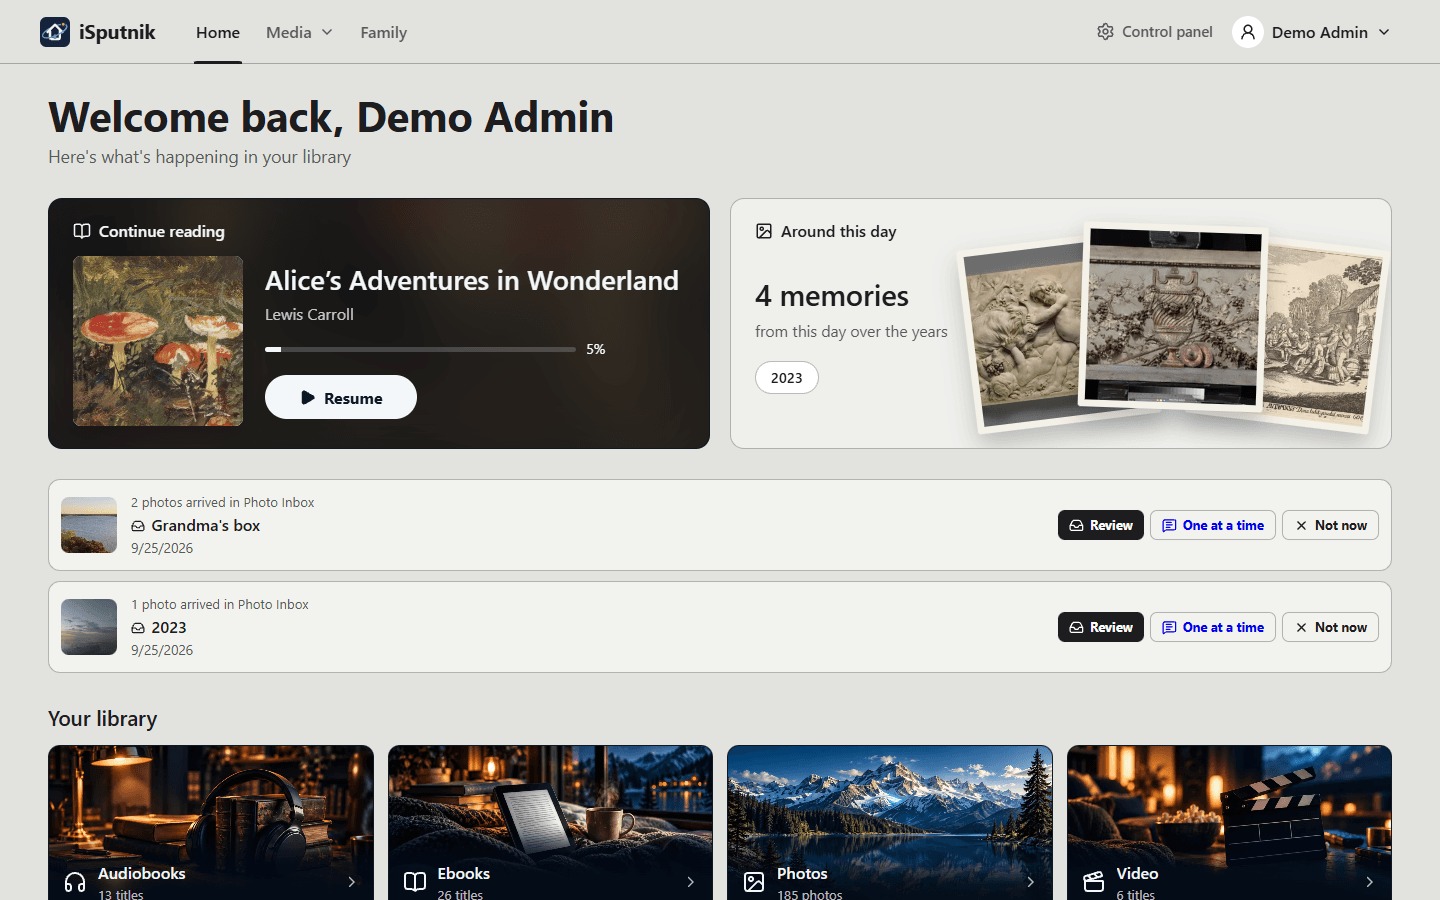
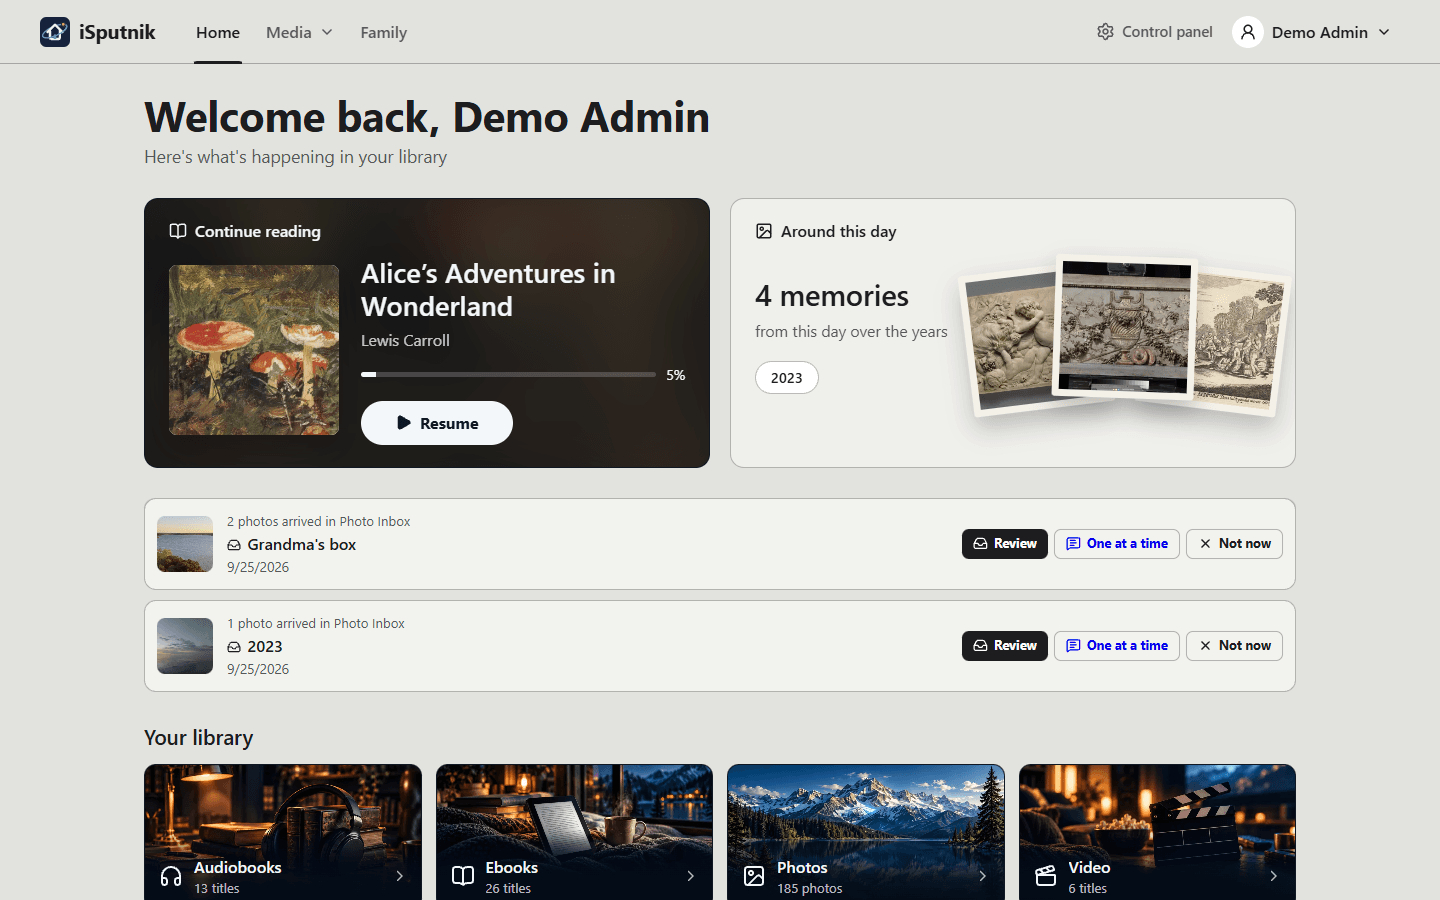
release: 4.56.0 - Covers like books on a shelf
Covers are the bare picture: no box, frame or blurred fill. Every cover in
a row is as tall as its slot (square for audiobooks, a fifth taller for
books and films, via container queries) and keeps its own shape, set on the
slot's floor so titles line up. Pages take 80% of the window
(--browse-page-width, at least 1100px) for libraries, Video and Home; Home
tiles are as wide as their covers. shared/coverBackdrop.ts is gone.

diff --git a/apps/web/src/styles/library-browse.css b/apps/web/src/styles/library-browse.css
@@ -38,6 +38,13 @@ input.library-filter {
 
 /* ── Audiobook landing page ─────────────────────────────────────── */
 
+/* How wide a page in the middle of the screen is: four fifths of the window, as
+   in the owner's mock-up, and never squeezed below 1100px on a smaller one.
+   Shared by the browse pages, Video and the top layout's Home. */
+:root {
+  --browse-page-width: min(100%, max(80vw, 1100px));
+}
+
 .audiobook-main-page {
   --audiobook-soft-shadow: 0 8px 18px var(--shadow);
   --audiobook-strong-shadow: 0 18px 36px var(--shadow);
@@ -58,11 +65,11 @@ input.library-filter {
   min-width: 0;
 }
 
-/* Browse pages sit in the middle of a wide screen at Home's and Video's width,
-   so a row of covers stays one glance wide. The family map is the exception: a
+/* Browse pages sit in the middle of a wide screen — about four fifths of it, the
+   owner's mock-up — like Home and Video, so a row of covers stays one glance wide. The family map is the exception: a
    map is better the more of it there is. */
 .audiobook-main-page:not(.ft-map-page) {
-  width: min(100%, 1680px);
+  width: var(--browse-page-width);
   margin-inline: auto;
 }
 
@@ -963,7 +970,7 @@ input.library-filter {
 }
 
 /* The View menu's cover sizes, one width for every kind so audiobooks and ebooks
-   line up column for column: at the 1680px page comfortable holds seven covers a
+   line up column for column: at a 1920px window comfortable holds seven covers a
    row, compact nine, large five; narrower windows simply hold fewer. */
 .audiobook-catalog.grid {
   grid-template-columns: repeat(auto-fill, minmax(190px, 1fr));
@@ -976,7 +983,7 @@ input.library-filter {
 }
 
 .audiobook-catalog.grid.compact {
-  grid-template-columns: repeat(auto-fill, minmax(165px, 1fr));
+  grid-template-columns: repeat(auto-fill, minmax(150px, 1fr));
   gap: 26px 20px;
 }
 
@@ -1048,12 +1055,55 @@ input.library-filter {
     var(--active);
 }
 
-/* One square shape for every kind — audiobooks, ebooks, video — so covers line
-   up across the libraries. A cover of another shape is shown whole over a blur
-   of itself (.cover-backdrop). No frame. */
+/* The cover is the picture itself — no box, frame or fill around it, like books
+   on a shelf. The picture is as large as fits a slot (--cover-slot, measured in
+   the card's own width — a container query, so it can only size what is INSIDE
+   the card) and sits on the floor of the card's first row at its left edge; the
+   grid stretches every card in a row to the tallest, so the titles under a row
+   stay on one line. Tall covers get a
+   slot a fifth taller than the column is wide, so a book cover fills most of its
+   column; the Audiobooks page, all square art, keeps a square slot. Covers come
+   from the server larger than any slot, so capping them never blurs them. */
+.audiobook-catalog-card.grid {
+  --cover-slot: 120cqw;
+  container-type: inline-size;
+  grid-template-rows: 1fr auto;
+}
+
+.audiobook-catalog.is-audiobook .audiobook-catalog-card.grid {
+  --cover-slot: 100cqw;
+}
+
 .audiobook-catalog-card.grid .audiobook-catalog-cover {
-  aspect-ratio: 1 / 1;
+  align-self: end;
+  justify-self: start;
+  display: block;
+  width: fit-content;
+  height: auto;
   border: 0;
+  background: transparent;
+}
+
+.audiobook-catalog-card.grid .audiobook-catalog-cover img {
+  position: static;
+  display: block;
+  width: auto;
+  height: auto;
+  min-width: 40cqw;
+  max-width: 100cqw;
+  max-height: var(--cover-slot);
+  background: transparent;
+}
+
+/* A narrow cover still gets the whole row of actions under it on hover. */
+.audiobook-catalog-card.grid .audiobook-catalog-actions {
+  right: auto;
+  width: max(calc(100% + 2px), 100cqw);
+}
+
+/* Nothing under the cover any more, so the lift on hover is all the shadow. */
+.audiobook-catalog-card.grid .audiobook-catalog-cover {
+  box-shadow: 0 10px 22px var(--shadow);
 }
 
 

diff --git a/apps/web/src/styles/video.css b/apps/web/src/styles/video.css
@@ -8,7 +8,7 @@
 .audiobook-main-page.video-page {
   position: relative;
   gap: 30px;
-  width: min(100%, 1680px);
+  width: var(--browse-page-width);
   margin-inline: auto;
 }
 
@@ -23,7 +23,10 @@
 }
 
 .video-card {
+  --cover-slot: 120cqw;
+  container-type: inline-size;
   display: grid;
+  grid-template-rows: 1fr auto;
   gap: 8px;
   min-width: 0;
   color: var(--ink);
@@ -49,6 +52,33 @@
   outline-offset: 0;
 }
 
+/* With a poster the cover is the picture alone, as tall as the column is wide,
+   like the book covers; without one it stays a square of the title. */
+.video-card-cover.has-poster {
+  align-self: end;
+  justify-self: start;
+  display: block;
+  width: fit-content;
+  height: auto;
+  aspect-ratio: auto;
+  background: transparent;
+}
+
+.video-card-cover.has-poster > img {
+  position: static;
+  display: block;
+  width: auto;
+  height: auto;
+  min-width: 40cqw;
+  max-width: 100cqw;
+  max-height: var(--cover-slot);
+}
+
+/* A title with no poster yet fills the slot as a square of its name. */
+.video-card-cover:not(.has-poster) {
+  align-self: end;
+}
+
 .video-card:hover .video-card-cover,
 .video-card:focus-visible .video-card-cover {
   outline-color: var(--mint);
@@ -64,9 +94,6 @@
   letter-spacing: 0.04em;
 }
 
-.video-card-cover.has-poster {
-  background: var(--surface-raised);
-}
 
 .video-card-cover > img {
   position: absolute;

diff --git a/apps/web/src/styles/orbit.css b/apps/web/src/styles/orbit.css
@@ -560,7 +560,7 @@
   position: relative;
   display: grid;
   gap: 30px;
-  width: min(100%, 1680px);
+  width: var(--browse-page-width);
   margin: 0 auto;
   padding: 0 0 48px;
 }
@@ -891,9 +891,21 @@
   text-decoration: none;
 }
 
-/* Every tile is the same square, whatever its kind. */
+/* Every tile is as tall as the square; a tile is as wide as its cover, so the gaps
+   along a row stay even, and its words take that width without widening it. */
 .orbit-tile {
+  width: fit-content;
+  min-width: calc(var(--orbit-cover) * 0.5);
+  max-width: var(--orbit-cover);
+}
+
+.orbit-tile:has(> .orbit-tile-cover:not(:has(> img))) {
   width: var(--orbit-cover);
+}
+
+.orbit-tile > :not(.orbit-tile-cover) {
+  width: 0;
+  min-width: 100%;
 }
 
 .orbit-tile-cover {
@@ -922,8 +934,19 @@
   object-fit: cover;
 }
 
-/* A book cover or poster is taller than the square: shown whole, not cropped, so
-   its title survives, with a blur of it either side (cover-backdrop). */
+/* A cover is the picture alone, as tall as the tile's square and as wide as it
+   needs: no box or fill around a tall book cover or poster. */
+.orbit-tile-cover:has(> img) {
+  width: fit-content;
+  max-width: 100%;
+  background: transparent;
+}
+
+.orbit-tile-cover > img {
+  width: auto;
+  max-width: 100%;
+  object-fit: contain;
+}
 
 .orbit-tile-empty {
   display: grid;

diff --git a/apps/web/src/features/home/OrbitHome.tsx b/apps/web/src/features/home/OrbitHome.tsx
@@ -7,7 +7,6 @@ import { useSections } from "../../app/sections";
 import { useVideoAvailable } from "../../app/useVideoAvailable";
 import { followRoute, galleryRecentHref, navigate } from "../../router";
 import { Button } from "../../shared/Button";
-import { coverBackdrop } from "../../shared/coverBackdrop";
 import { DEFAULT_COVERS } from "../audiobooks/covers";
 import { authorLine, feedHref, fetchFeed, type FeedItem } from "../library/feed";
 import {
@@ -101,7 +100,7 @@ function TileRow({ title, viewAll, tiles }: { title: string; viewAll?: string; t
               href={tile.href}
               onClick={tile.onClick ?? ((event) => followRoute(event, tile.href))}
             >
-              <span className={`orbit-tile-cover${tile.cover ? " cover-backdrop" : ""}`} style={coverBackdrop(tile.cover)}>
+              <span className="orbit-tile-cover">
                 {tile.cover
                   ? <img src={tile.cover} alt="" loading="lazy" />
                   : <span className="orbit-tile-empty"><Fallback size={30} aria-hidden="true" /></span>}

diff --git a/apps/web/src/features/library/FeedTile.tsx b/apps/web/src/features/library/FeedTile.tsx
@@ -2,7 +2,6 @@ import { useTranslation } from "react-i18next";
 import { Play } from "lucide-react";
 import { DEFAULT_COVERS } from "../audiobooks/covers";
 import { followRoute } from "../../router";
-import { coverBackdrop } from "../../shared/coverBackdrop";
 import { MediaKindBadge } from "../../shared/MediaKindBadge";
 import { relativeTime } from "../../shared/relativeTime";
 import { authorLine, feedHref, type FeedItem } from "./feed";
@@ -21,7 +20,7 @@ export function FeedTile({ item, progress, added, kindLabel }: { item: FeedItem;
 
   return (
     <a className="audiobook-catalog-card grid home-feed-tile" href={href} onClick={(event) => followRoute(event, href)}>
-      <div className={"audiobook-catalog-cover cover-backdrop"} style={coverBackdrop(item.coverUrl ?? DEFAULT_COVERS[item.kind])}>
+      <div className="audiobook-catalog-cover">
         <img src={item.coverUrl ?? DEFAULT_COVERS[item.kind]} alt="" loading="lazy" />
         <MediaKindBadge kind={item.kind} overlay showLabel={kindLabel} />
         {progress && percent > 0 && (

diff --git a/apps/web/src/features/audiobooks/catalog/CatalogBookCard.tsx b/apps/web/src/features/audiobooks/catalog/CatalogBookCard.tsx
@@ -2,7 +2,6 @@ import { useTranslation } from "react-i18next";
 import { Check, CheckCircle2, CheckSquare, Download, Heart, Layers, ListMusic, Play, RotateCcw, Square } from "lucide-react";
 import { navigate } from "../../../router";
 import { cx } from "../../../shared/cx";
-import { coverBackdrop } from "../../../shared/coverBackdrop";
 import { formatDuration } from "../../../shared/utils";
 import { DEFAULT_COVERS } from "../covers";
 import type { AudiobookBook } from "../types";
@@ -56,8 +55,7 @@ export function CatalogBookCard({
   return (
     <article className={cx("audiobook-catalog-card", "grid", selectionMode && "selectable", selected && "selected")}>
       <div
-        className="audiobook-catalog-cover cover-backdrop"
-        style={coverBackdrop(book.coverUrl ?? DEFAULT_COVERS.audiobook)}
+        className="audiobook-catalog-cover"
         role="button"
         tabIndex={0}
         aria-pressed={selectionMode ? selected : undefined}

diff --git a/apps/web/src/features/audiobooks/catalog/EbookCatalogCard.tsx b/apps/web/src/features/audiobooks/catalog/EbookCatalogCard.tsx
@@ -2,7 +2,6 @@ import { useTranslation } from "react-i18next";
 import { BookOpen, Check, CheckCircle2, CheckSquare, Download, Heart, Layers, ListMusic, RotateCcw, Square } from "lucide-react";
 import { navigate } from "../../../router";
 import { cx } from "../../../shared/cx";
-import { coverBackdrop } from "../../../shared/coverBackdrop";
 import { formatBytes } from "../../../shared/utils";
 import { DEFAULT_COVERS } from "../covers";
 import type { AudiobookBook } from "../types";
@@ -62,8 +61,7 @@ export function EbookCatalogCard({
   return (
     <article className={cx("audiobook-catalog-card", "grid", selectionMode && "selectable", selected && "selected")}>
       <div
-        className="audiobook-catalog-cover cover-backdrop"
-        style={coverBackdrop(book.coverUrl ?? DEFAULT_COVERS.ebook)}
+        className="audiobook-catalog-cover"
         role="button"
         tabIndex={0}
         aria-pressed={selectionMode ? selected : undefined}

diff --git a/apps/web/src/styles/components/primitives.css b/apps/web/src/styles/components/primitives.css
@@ -1060,28 +1060,3 @@ a.icon-button svg {
   white-space: nowrap;
 }
 
-/* A cover box that fills the space its cover leaves with a blur of the same
-   picture (shared/coverBackdrop.ts sets --cover): a cover of another shape than
-   its box is shown whole, without black bars. Clipped to the box, so it works
-   where the box itself lets its contents overflow. */
-.cover-backdrop {
-  isolation: isolate;
-}
-
-.cover-backdrop::before {
-  position: absolute;
-  z-index: -1;
-  inset: -24px;
-  border-radius: inherit;
-  content: "";
-  background: var(--cover) center / cover no-repeat;
-  filter: blur(16px) brightness(0.72) saturate(1.1);
-  clip-path: inset(24px round 10px);
-  pointer-events: none;
-}
-
-/* Doubled to outrank each card's own img rule (black bars, crop to fill). */
-.cover-backdrop.cover-backdrop > img {
-  object-fit: contain;
-  background: transparent;
-}

diff --git a/apps/web/src/features/video/VideoPoster.tsx b/apps/web/src/features/video/VideoPoster.tsx
@@ -3,7 +3,6 @@ import { Check } from "lucide-react";
 import type { LucideIcon } from "lucide-react";
 import { useTranslation } from "react-i18next";
 import { followRoute } from "../../router";
-import { coverBackdrop } from "../../shared/coverBackdrop";
 
 export interface PosterItem {
   key: string;
@@ -26,7 +25,7 @@ export function PosterCard({ item }: { item: PosterItem }) {
   const Icon = item.icon;
   return (
     <a className="video-card" href={item.href} onClick={(event) => followRoute(event, item.href)}>
-      <span className={`video-card-cover${item.poster ? " has-poster cover-backdrop" : ""}`} style={coverBackdrop(item.poster)} aria-hidden="true">
+      <span className={`video-card-cover${item.poster ? " has-poster" : ""}`} aria-hidden="true">
         {item.poster ? (
           <img src={item.poster} alt="" loading="lazy" />
         ) : (

diff --git a/apps/web/src/features/audiobooks/catalog/CatalogPage.tsx b/apps/web/src/features/audiobooks/catalog/CatalogPage.tsx
@@ -536,7 +536,7 @@ export function CatalogPage({ kind }: { kind: CatalogKind }) {
                 {!cat.loading && cat.books.length === 0 && <p className="management-empty">{emptyMessage}</p>}
               </div>
             ) : (
-              <div className={cx("audiobook-catalog", "grid", isMobile ? "phone-covers" : density)}>
+              <div className={cx("audiobook-catalog", "grid", `is-${kind}`, isMobile ? "phone-covers" : density)}>
                 {cat.books.map((book) => {
                   const lib = libraryFor(book.libraryId);
                   const tile = {

diff --git a/docs/top-layout-plan.md b/docs/top-layout-plan.md
@@ -18,8 +18,11 @@ Why the sidebar gave way to a top bar, what it is now, and what is left. Accepte
   plain links (icon, name, count) hanging from the button — since 4.55, at the owner's
   request; it used to open onto the big picture cards. The picture cards stay on Home,
   on screens of at least 1400 × 820, so the rows below are not pushed down.
-- **Covers:** one square shape for audiobooks, ebooks and video (4.55, the owner liked
-  the audiobooks' look best); other shapes show whole over a blur of themselves.
+- **Covers:** the picture alone, no box, frame or blurred fill (4.56, from the owner's
+  mock-up): every cover in a row is as tall as its slot and as wide as its shape, set on
+  the slot's floor at its left edge, so the titles line up. The slot is square on
+  Audiobooks and a fifth taller for books and films. Pages sit at four fifths of the
+  window (`--browse-page-width`, at least 1100px).
 - **Tabs:** each section's existing `sideNav` component, flattened by CSS into one row
   under the bar. A long row scrolls, keeping the current page in view.
 - **Home:** Continue (the most recent book or video) and On this day, what is waiting on

diff --git a/CHANGELOG.md b/CHANGELOG.md
@@ -3,6 +3,12 @@
 Every release, newest first. Generated from `apps/server/src/changelog.json` (the same
 text the app shows on its About page) by `npm run changelog` — edit that file, not this one.
 
+## 4.56.0 — Covers like books on a shelf
+
+- **Covers are just the picture.** No box, frame or blurred fill around them any more: every cover in a row is the same height and keeps its own shape, so a shelf of books, audiobooks or films reads like the real thing, with the titles lined up underneath.
+- **Pages take four fifths of a wide screen**, for the libraries, Video and Home alike, with the room either side kept clear.
+- **Home's rows are evenly spaced**: each tile is as wide as its cover.
+
 ## 4.55.0 — A tidier bookshelf
 
 - **Library pages sit in the middle of the screen**, like Home and Video, and on a wide window the title, search and every tool share one line.
